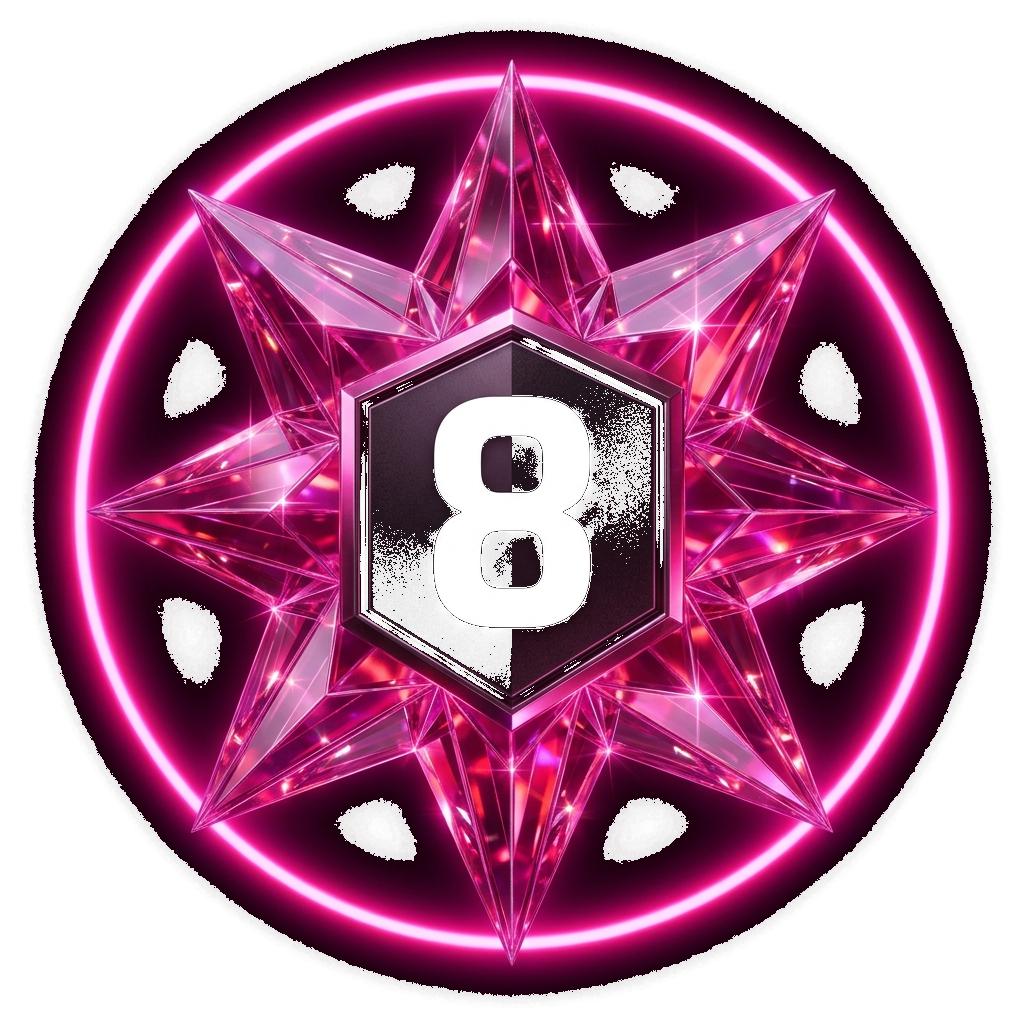
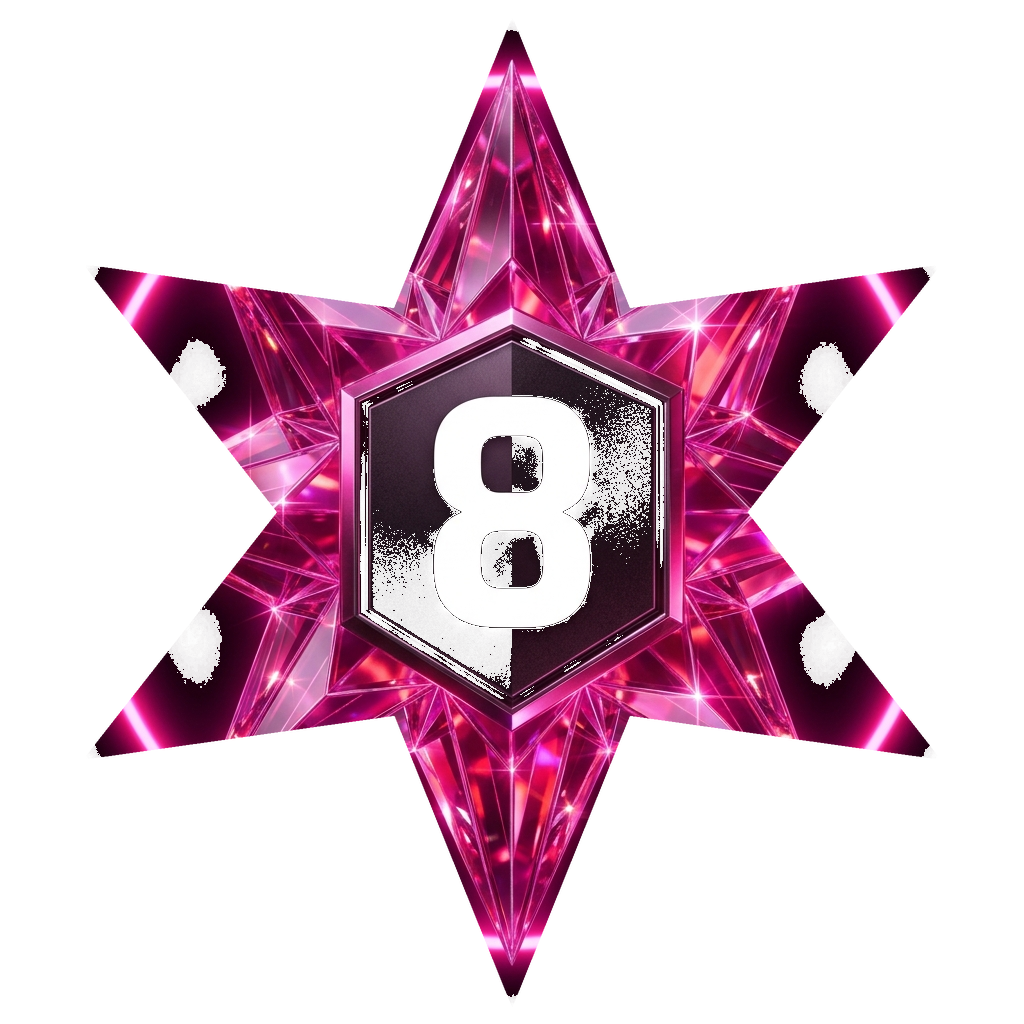
v1.63.0 : Removed background circular ring from 3D Fire Crystal star badges

diff --git a/CHANGELOG.md b/CHANGELOG.md
@@ -1,5 +1,11 @@
 # CHANGELOG
 
+## [1.63.0] - 2026-08-11
+### Ringless 3D Faceted Fire Crystal Star Badges
+- **💎 Pure 3D Fire Crystal Star Design**:
+  - Removed the background circular ring and dark halo from all Fire Crystal badges (`fc1.png` – `fc10.png`).
+  - Now renders exclusively the 3D faceted 6-pointed crystal star and glowing center hexagon, giving the Fire Crystal badges maximum power, sharp geometric edges, and zero visual clutter across all profile cards, lookups, and editors.
+
 ## [1.62.0] - 2026-08-11
 ### Action Category Filter Tabs for Admin Audit Logs
 - **🏷 Interactive Category Pills**:
